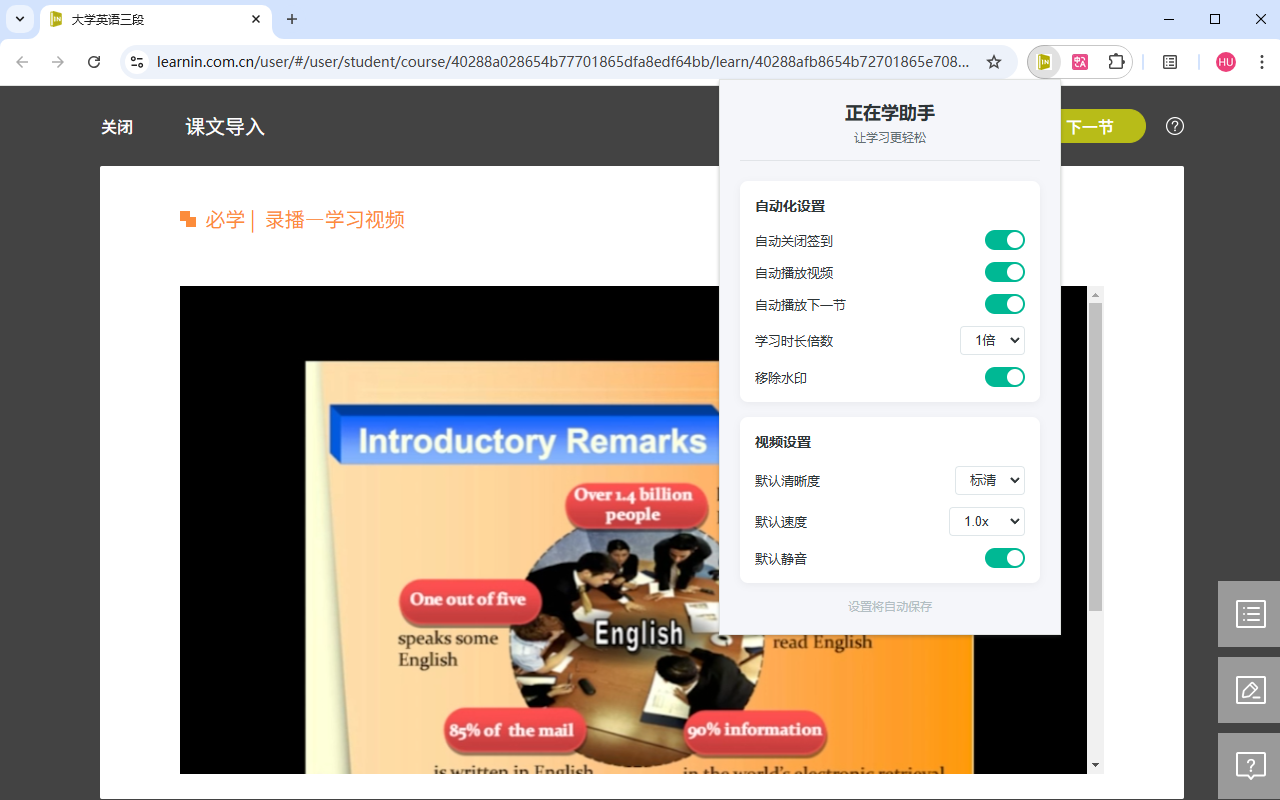
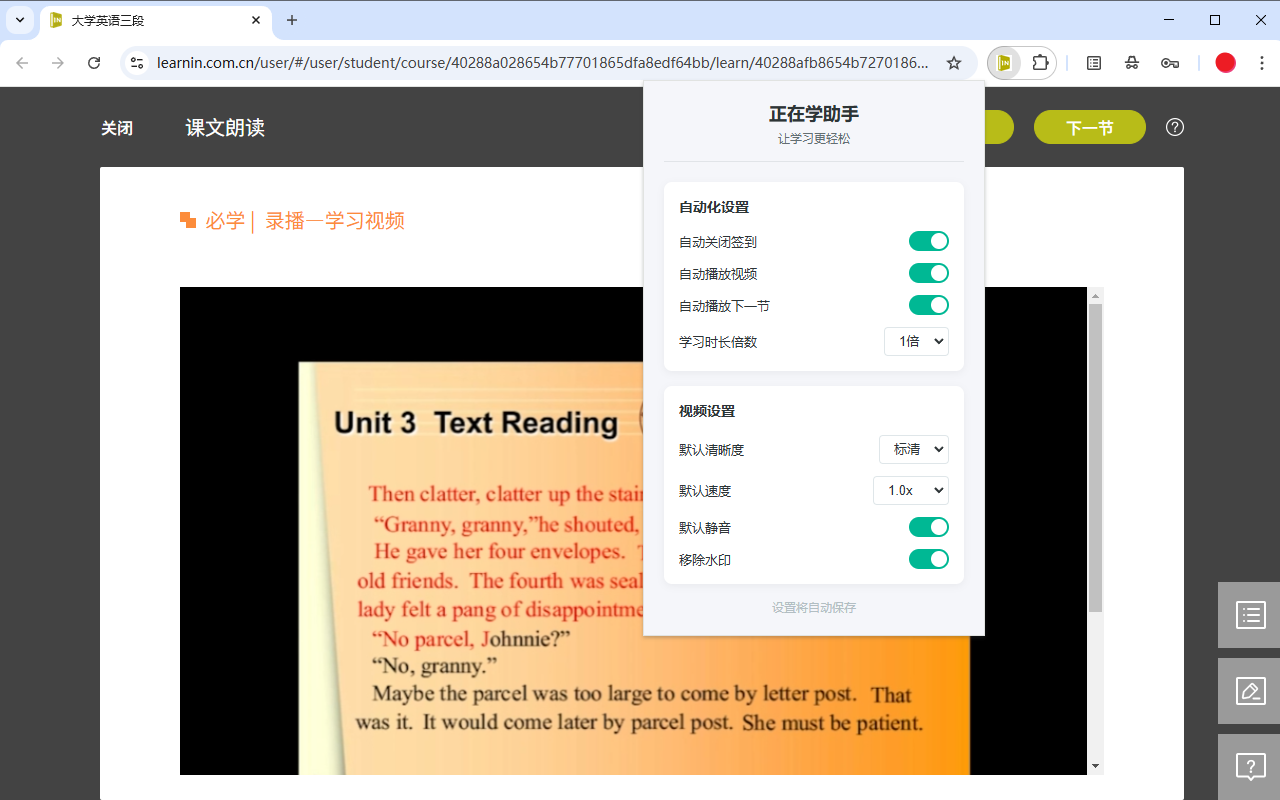
fix

diff --git a/popup.html b/popup.html
@@ -168,13 +168,6 @@
         <option value="5">5倍</option>
       </select>
     </div>
-    <div class="setting-item">
-      <span class="setting-label">移除水印</span>
-      <label class="switch">
-        <input type="checkbox" id="removeWatermark">
-        <span class="slider"></span>
-      </label>
-    </div>
   </div>
 
   <div class="settings-group">
@@ -200,6 +193,13 @@
       <span class="setting-label">默认静音</span>
       <label class="switch">
         <input type="checkbox" id="autoMute">
+        <span class="slider"></span>
+      </label>
+    </div>
+    <div class="setting-item">
+      <span class="setting-label">移除水印</span>
+      <label class="switch">
+        <input type="checkbox" id="removeWatermark">
         <span class="slider"></span>
       </label>
     </div>

diff --git a/README.md b/README.md
@@ -11,12 +11,12 @@
 - 自动播放视频
 - 自动跳转下一节课程
 - 自定义学习时长倍数
-- 自动移除视频水印
 
 ### 视频设置
 - 自定义默认视频清晰度（高清/标清）
 - 自定义默认播放速度（0.5x - 2x）
 - 默认静音播放
+- 移除视频水印
 
 ## 使用方法
 
